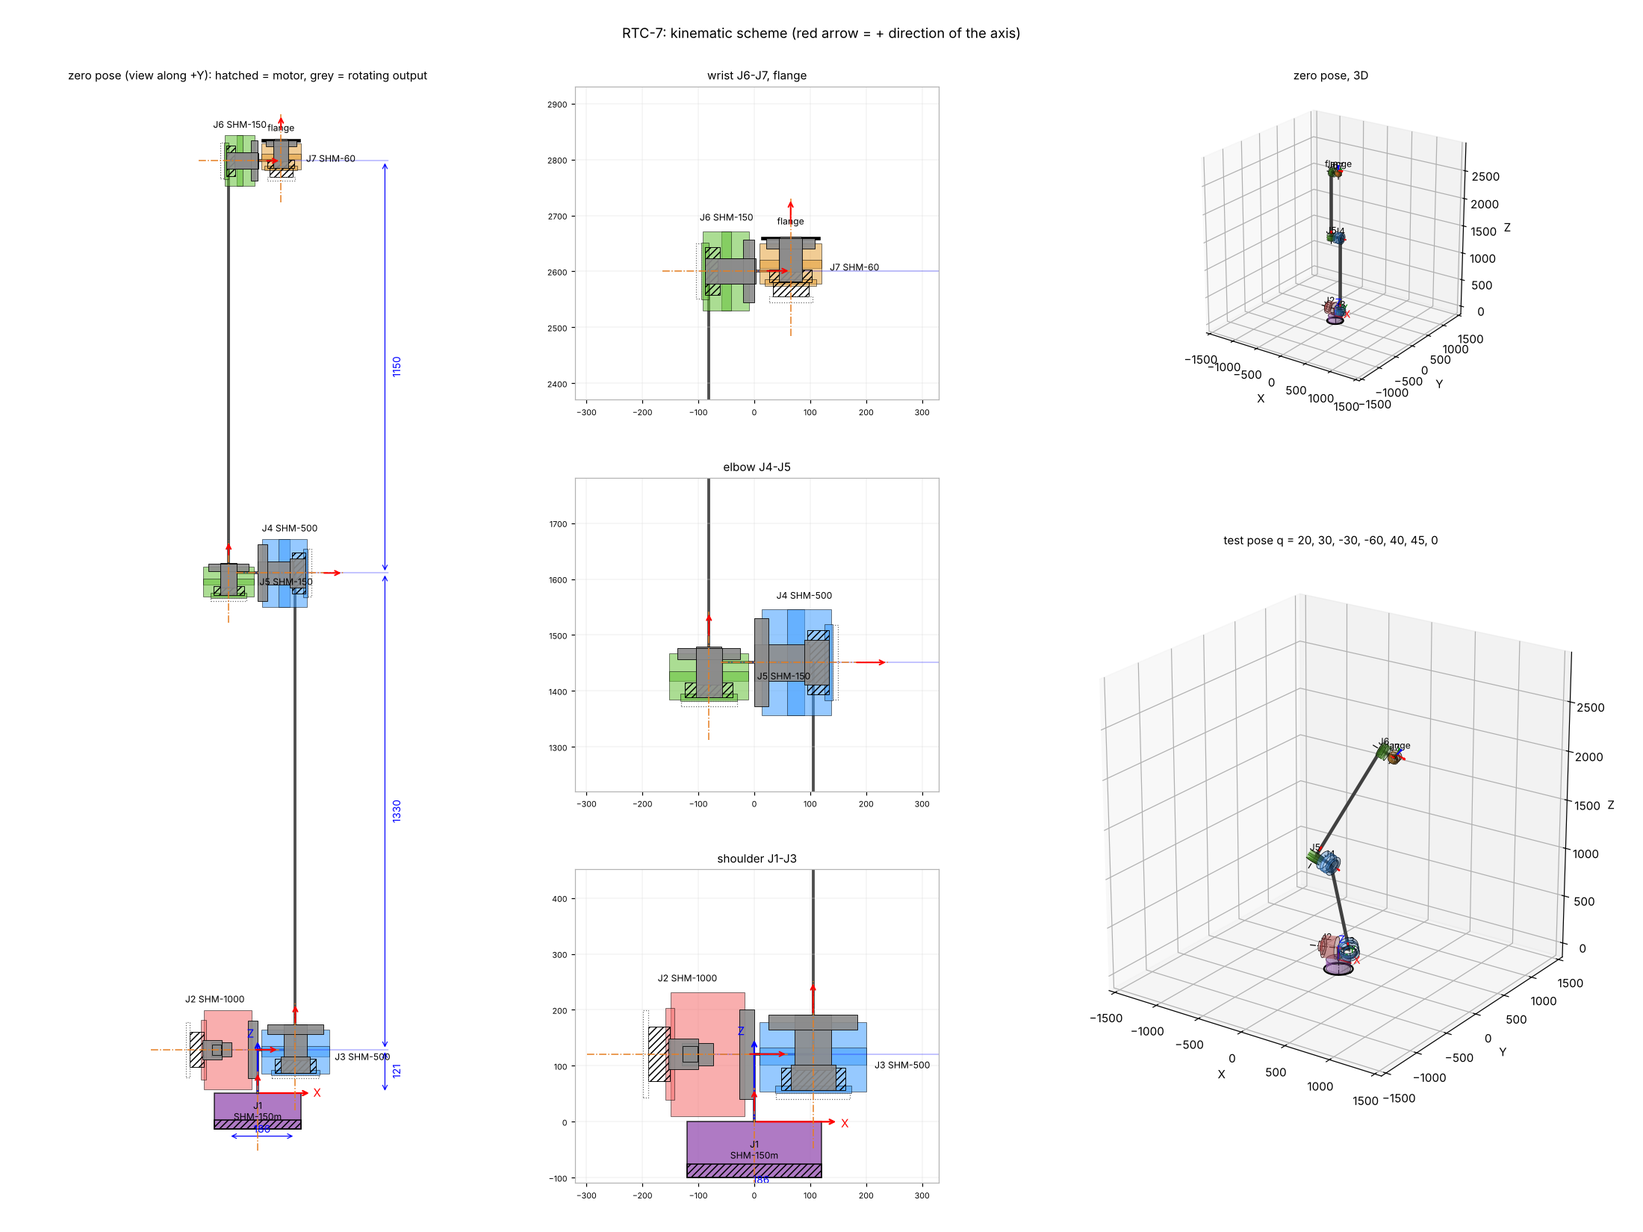
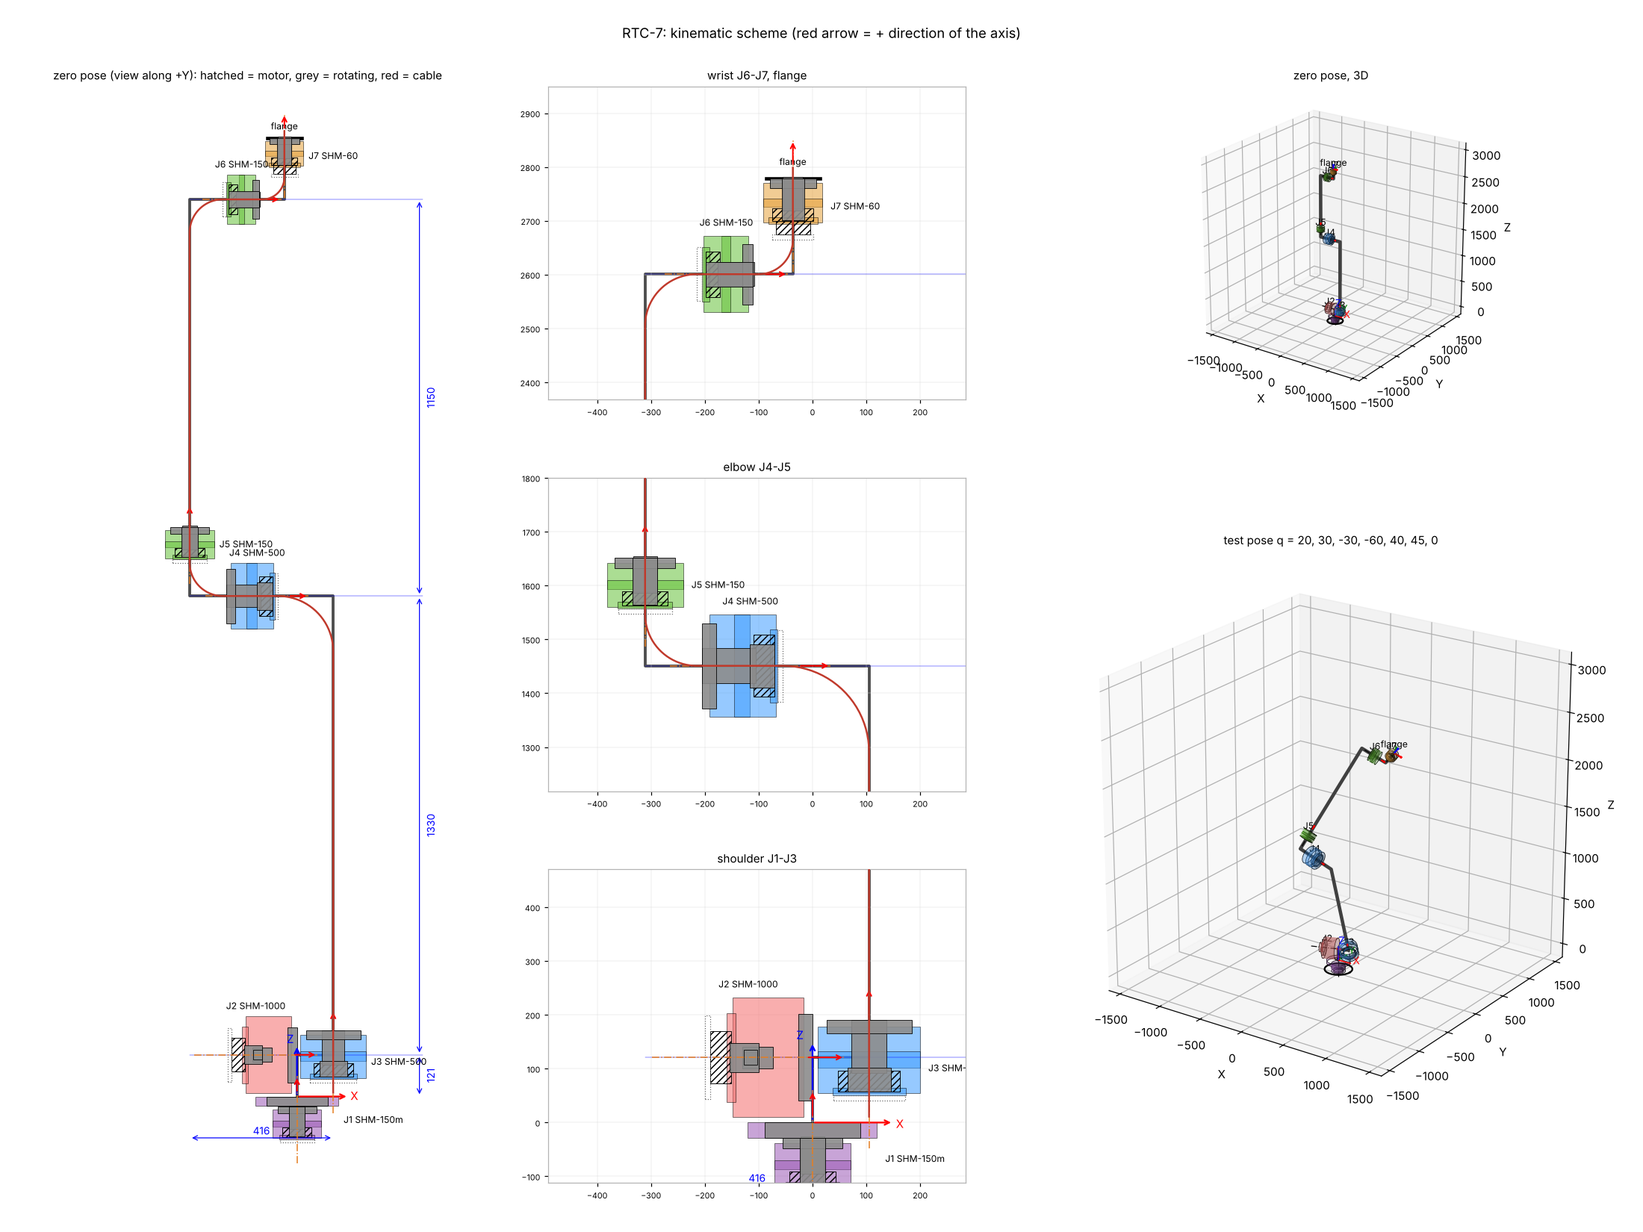
Layout with the cable path through the joint bores (90 deg bends J3->J4->J5->J6->J7), ШМ-150м under the ОПУ; joint_envelope reports the bore; scheme draws the cable and the ОПУ
Claude-Session: https://claude.ai/code/session_01T1NEmM8t24YJBEFNnKwD2z

diff --git a/tools/robot_layout.py b/tools/robot_layout.py
@@ -1,27 +1,33 @@
 #!/usr/bin/env python3
-"""Compact layout of the RTC-7 arm from the scheme topology and the real joint envelopes.
+"""Compact layout of the RTC-7 arm from the scheme topology, the real joint envelopes and the cable path.
 
-    python tools/robot_layout.py [--l3 1330] [--l5 1150] [--gap 10] [--plate 10] [--out robot/RTC-7-layout.txt]
+    python tools/robot_layout.py [--l3 1330] [--l5 1150] [--gap 10] [--plate 10]
+                                 [--k 4] [--clear 4] [--rb34 R --rb45 R --rb56 R --rb67 R]
+                                 [--out robot/RTC-7-layout.txt]
 
-Topology (from the user's scheme): J1 roll (vertical, motor down, on the ОПУ), J2 pitch (axis X,
-motor -X), J3 roll, J4 pitch (motor +X), J5 roll, J6 pitch (motor -X), J7 roll (tool flange up).
-Given: the link lengths J2->J4 (l3) and J4->J6 (l5) along Z. Everything else is minimised with the
-envelopes of tools/joint_envelope.py (rear allowance 10 mm for the rear cover) and these rules:
+Topology (user's scheme, 2026-10-18 v2): J1 = ШМ-150м (ШМ-150 + ОПУ RU178G; the outer ring stands on
+the horizontal base plane, the whole arm on the inner ring), J2 pitch (axis X, motor -X), J3 roll
+(motor down), J4 pitch (motor +X), J5 roll, J6 pitch (motor -X), J7 roll, tool flange up.
+Given: the link lengths J2->J4 (l3) and J4->J6 (l5) along Z.
 
-  lateral (X) - the output face of every pitch joint is the plane that separates the two links:
-    * the link on the output side (plate t on the output flange) carries the next roll joint whose
-      column (radius R of that joint) starts right behind the plate: x_roll = x_face +- (t + R);
-    * the link on the housing side keeps a gap g from the swept region of the output side:
-      x_face = x_roll_prev -+ (R_prev + g)  -> the two roll columns are R_prev + R_next + t + g apart,
-      so the pitch joint can fold the links past each other;
-    * J2: its output face is put on the J1 axis (x = 0) as drawn; link 1 is a bracket on the -X side.
-  vertical (Z):
-    * J2 axis above the ОПУ face: J2 envelope radius + g (the J2 body rotates with J1 over the fixed
-      base) and >= plate + g + R3 (the upper arm can swing to horizontal over link 1);
-    * a roll joint after a pitch joint is moved down to the pitch axis as far as possible: its rear
-      end (with the allowance) at the lower edge of the pitch joint output flange (z_pitch - R_out),
-      and for J3 not lower than plate + g above the ОПУ face;
-    * checks: the roll joint top stays below the next pitch joint body (z_next - R_next - g).
+Cable: enters J3 and runs through the central bores J3 -> J4 -> J5 -> J6 -> J7. Between two joints
+it turns 90 deg with the bend radius Rb (centre line) outside the joints:
+    Rb = k * d,  d = (smaller bore of the two joints) - clear   (static bend; k = 4 by default)
+or given directly with --rbXY. The cable enters a joint through its rear (motor) end and leaves
+through the output end.
+
+Rules (everything not given is minimised; gap g, link plate t):
+  J2   output face on the J1 axis (x = 0) as drawn; axis height = max(J2 radius + g over the fixed
+       ОПУ outer ring, t + g + R3 so the upper arm can swing to horizontal over link 1).
+  J3   column right behind the link-2 plate: x3 = t + R3; moved down to J2: rear end at the lower
+       edge of the J2 output flange (not below t + g over the ОПУ).
+  J4   cable J3 -> J4 rear: x3 >= J4 rear end + Rb34  -> J4 output face x = x3 - Rb34 - L4.
+  J5   cable J4 output -> J5 rear: x5 = J4 face - t - Rb45; J5 rear end >= z4 + Rb45 (raised a bit).
+  J6   cable J5 output -> J6 rear: J6 rear end >= x5 + Rb56 -> J6 face = x5 + Rb56 + L6;
+       J5 output face <= z6 - t - Rb56 (checked).
+  J7   cable J6 output -> J7 rear: x7 = J6 face + t + Rb67; J7 rear end >= z6 + Rb67.
+  checks: the roll columns on both sides of a pitch joint are >= R + R' + t + g apart (the links
+  can fold past each other); the J3 output face is below z4 - t - Rb34.
 """
 import argparse
 import os
@@ -31,6 +37,7 @@ sys.path.insert(0, os.path.dirname(os.path.abspath(__file__)))
 import joint_envelope as je  # noqa: E402
 
 ROOT = os.path.dirname(os.path.dirname(os.path.abspath(__file__)))
+OPU_B = 28.0          # RU178G width (ASSUMED as IKO RU178), outer ring on the base plane
 
 
 def main():
@@ -39,69 +46,101 @@ def main():
     ap.add_argument("--l5", type=float, default=1150.0, help="J4 -> J6 along the arm, mm")
     ap.add_argument("--gap", type=float, default=10.0)
     ap.add_argument("--plate", type=float, default=10.0)
+    ap.add_argument("--k", type=float, default=4.0, help="bend radius / cable diameter")
+    ap.add_argument("--clear", type=float, default=4.0, help="cable diameter = bore - clear")
+    for s in ("34", "45", "56", "67"):
+        ap.add_argument(f"--rb{s}", type=float, help=f"bend radius J{s[0]} -> J{s[1]}, mm")
     ap.add_argument("--out", default="robot/RTC-7-layout.txt")
     a = ap.parse_args()
     g, t = a.gap, a.plate
     env = je.all_joints()
-    E2, E3, E4, E5, E6, E7 = (env[n] for n in ("SHM-1000", "SHM-500", "SHM-500", "SHM-150", "SHM-150", "SHM-60"))
+    E1, E2, E3, E4, E5, E6, E7 = (env[n] for n in ("SHM-150", "SHM-1000", "SHM-500", "SHM-500",
+                                                    "SHM-150", "SHM-150", "SHM-60"))
+    rb, dc = {}, {}
+    for s, ea, eb in (("34", E3, E4), ("45", E4, E5), ("56", E5, E6), ("67", E6, E7)):
+        dc[s] = min(ea["bore"], eb["bore"]) - a.clear
+        rb[s] = getattr(a, f"rb{s}") or a.k * dc[s]
 
-    # ---- lateral
-    xf2 = 0.0                                   # J2 output face on the J1 axis (as drawn)
-    x3 = xf2 + t + E3["R"]                      # J3 column right behind the link-2 plate
-    xf4 = x3 - E3["R"] - g                      # J4 output face (output -X)
-    x5 = xf4 - t - E5["R"]
-    xf6 = x5 + E5["R"] + g                      # J6 output face (output +X)
-    x7 = xf6 + t + E7["R"]
-    # ---- vertical
+    # ---- J1: ШМ-150 under the ОПУ; its housing top clears the inner ring (z -B..0) by g
+    z1_face = -OPU_B - g + (E1["x_out"] - max(x1 for x0, x1, r, n in E1["fixed"]))
+    # ---- J2
+    xf2 = 0.0
     z2 = max(E2["R"] + g, t + g + E3["R"])
+    # ---- J3
+    x3 = xf2 + t + E3["R"]
     z3_rear = max(z2 - E2["R_out"], t + g)
     z3_face = z3_rear + E3["L"]
     z4 = z2 + a.l3
-    z5_rear = z4 - E4["R_out"]
+    # ---- J4 (output -X): rear end at x3 - Rb34
+    xf4 = x3 - rb["34"] - E4["L"]
+    # ---- J5
+    x5 = xf4 - t - rb["45"]
+    z5_rear = z4 + rb["45"]
     z5_face = z5_rear + E5["L"]
     z6 = z4 + a.l5
-    z7_rear = z6 - E6["R_out"]
+    # ---- J6 (output +X): rear end at x5 + Rb56
+    xf6 = x5 + rb["56"] + E6["L"]
+    # ---- J7
+    x7 = xf6 + t + rb["67"]
+    z7_rear = z6 + rb["67"]
     z7_face = z7_rear + E7["L"]
-    checks = [("J3 top below the J4 body", z3_face, z4 - E4["R"] - g),
-              ("J5 top below the J6 body", z5_face, z6 - E6["R"] - g)]
-    bad = [c for c in checks if c[1] > c[2]]
+
+    checks = [("J3 output face below the J3->J4 cable bend", z3_face, z4 - t - rb["34"]),
+              ("J5 output face below the J5->J6 cable bend", z5_face, z6 - t - rb["56"]),
+              ("links fold past each other at J4 (columns J3/J5)", E3["R"] + E5["R"] + t + g, x3 - x5),
+              ("links fold past each other at J6 (columns J5/J7)", E5["R"] + E7["R"] + t + g, x7 - x5),
+              ("J2 body over the ОПУ outer ring", g, z2 - E2["R"])]
+    bad = [c for c in checks if c[1] > c[2] + 1e-9]
     for name, v, lim in checks:
-        print(f"{'OK ' if v <= lim else 'BAD'} {name}: {v:.1f} <= {lim:.1f}")
+        print(f"{'OK ' if v <= lim + 1e-9 else 'BAD'} {name}: {v:.1f} <= {lim:.1f}")
 
     L = []
     w = L.append
+    rbtxt = ", ".join(f"J{s[0]}->J{s[1]} {rb[s]:.0f} (cable D{dc[s]:.0f})" for s in rb)
     w("# Kinematic layout of the arm - GENERATED by tools/robot_layout.py (do not edit by hand,")
-    w(f"# change the rules / arguments there):  --l3 {a.l3:g} --l5 {a.l5:g} --gap {g:g} --plate {t:g}")
-    w("# Topology from the user's scheme (2026-10-18, v2): rectangle = joint, hatched end = motor side,")
-    w("# orange line = axis. Given: J2->J4 = l3, J4->J6 = l5. All other distances are minimised from the")
-    w("# joint envelopes (tools/joint_envelope.py); J3 is moved down to J2 and J5 down to J4 as far as")
-    w("# possible (rules in the header of tools/robot_layout.py).")
+    w(f"# change the rules / arguments there):  --l3 {a.l3:g} --l5 {a.l5:g} --gap {g:g} --plate {t:g} --k {a.k:g}")
+    w("# Topology from the user's scheme (2026-10-18, v2); J1 = ШМ-150м: ОПУ outer ring on the base plane,")
+    w("# the arm on the inner ring. Given: J2->J4 = l3, J4->J6 = l5; the rest minimised from the joint")
+    w("# envelopes and the cable path through the central bores J3..J7 (90 deg turns between joints).")
+    w(f"# Cable bend radii (centre line): {rbtxt}")
     w("ROBOT RTC-7")
     w("UNITS mm deg")
     w("# World frame = the X/Y frame of the scheme: origin on the J1 axis at the top face of the ОПУ,")
     w("# +Z up along J1, +X to the right (toward the J3 column), +Y = Z x X (into the scheme).")
     w("# AXIS name joint  point on the axis (x y z)  direction  motor/output side  face= output face centre")
     rows = [
-        ("J1", "SHM-150m", (0, 0, 0), (0, 0, 1), "-Z", "+Z", None, "base turn: ОПУ RU178G + KB32 + RI80 (joint not designed yet)"),
+        ("J1", "SHM-150m", (0, 0, 0), (0, 0, 1), "-Z", "+Z", (0, 0, z1_face), "base turn: ШМ-150 under the ОПУ RU178G, output -> inner ring (link 1)"),
         ("J2", "SHM-1000", (0, 0, z2), (1, 0, 0), "-X", "+X", (xf2, 0, z2), "shoulder; output face on the J1 axis"),
-        ("J3", "SHM-500", (x3, 0, z2), (0, 0, 1), "-Z", "+Z", (x3, 0, z3_face), "upper-arm roll; rear end at the lower edge of the J2 output flange"),
-        ("J4", "SHM-500", (x3, 0, z4), (1, 0, 0), "+X", "-X", (xf4, 0, z4), f"elbow; {a.l3:g} above J2"),
-        ("J5", "SHM-150", (x5, 0, z4), (0, 0, 1), "-Z", "+Z", (x5, 0, z5_face), "forearm roll; rear end at the lower edge of the J4 output flange"),
-        ("J6", "SHM-150", (x5, 0, z6), (1, 0, 0), "-X", "+X", (xf6, 0, z6), f"wrist; {a.l5:g} above J4"),
-        ("J7", "SHM-60", (x7, 0, z6), (0, 0, 1), "-Z", "+Z", (x7, 0, z7_face), "flange roll; rear end at the lower edge of the J6 output flange"),
+        ("J3", "SHM-500", (x3, 0, z2), (0, 0, 1), "-Z", "+Z", (x3, 0, z3_face), "upper-arm roll; cables enter here; down to the J2 output flange"),
+        ("J4", "SHM-500", (x3, 0, z4), (1, 0, 0), "+X", "-X", (xf4, 0, z4), f"elbow; {a.l3:g} above J2; rear end Rb34 from the J3 axis"),
+        ("J5", "SHM-150", (x5, 0, z4), (0, 0, 1), "-Z", "+Z", (x5, 0, z5_face), "forearm roll; rear end Rb45 above J4"),
+        ("J6", "SHM-150", (x5, 0, z6), (1, 0, 0), "-X", "+X", (xf6, 0, z6), f"wrist; {a.l5:g} above J4; rear end Rb56 from the J5 axis"),
+        ("J7", "SHM-60", (x7, 0, z6), (0, 0, 1), "-Z", "+Z", (x7, 0, z7_face), "flange roll; rear end Rb67 above J6"),
     ]
     f3 = lambda v: " ".join(f"{c:g}" if float(c).is_integer() else f"{c:.1f}" for c in v)
     for n, j, p, d, m, o, face, c in rows:
-        fs = f"face={','.join(f'{v:.1f}' for v in face)}" if face else ""
-        w(f"AXIS  {n}  {j:<9} {f3(p):<16} {f3(d):<7} motor={m} output={o} {fs:<28} # {c}")
+        fs = f"face={','.join(f'{v:.1f}' for v in face)}"
+        w(f"AXIS  {n}  {j:<9} {f3(p):<18} {f3(d):<7} motor={m} output={o} {fs:<28} # {c}")
+    w("# Cable path (centre line through the bores, zero pose) for drawing and checks:")
+    path = [(x3, z3_rear - 30), (x3, z4 - rb["34"]), ("arc", x3 - rb["34"], z4 - rb["34"], rb["34"], 0, 90),
+            (x3 - rb["34"], z4), (xf4 - t, z4), ("arc", xf4 - t, z4 + rb["45"], rb["45"], 270, 180),
+            (x5, z4 + rb["45"]), (x5, z6 - rb["56"]), ("arc", x5 + rb["56"], z6 - rb["56"], rb["56"], 180, 90),
+            (x5 + rb["56"], z6), (xf6 + t, z6), ("arc", xf6 + t, z6 + rb["67"], rb["67"], 270, 360),
+            (x7, z6 + rb["67"]), (x7, z7_face + 20)]
+    for p in path:
+        if p[0] == "arc":
+            w(f"CABLE arc {p[1]:.1f} {p[2]:.1f} {p[3]:.1f} {p[4]:g} {p[5]:g}   # centre x z, radius, from..to deg (0 = +X, 90 = +Z)")
+        else:
+            w(f"CABLE pt  {p[0]:.1f} {p[1]:.1f}")
     w("# Tool flange = output face of ШМ-60 (the tool is not on the scheme).")
     w(f"FLANGE {f3((x7, 0, z7_face))}   0 0 1")
     w("END")
     out = os.path.join(ROOT, a.out)
     open(out, "w", encoding="utf-8").write("\n".join(L) + "\n")
     print("\n".join(L))
-    print(f"\nlateral offsets: J1->J3 {x3:.1f}, J3->J5 {x3 - x5:.1f}, J5->J7 {x7 - x5:.1f}; "
-          f"ОПУ -> J2 {z2:.1f}; J6 -> flange {z7_face - z6:.1f}")
+    print(f"\nlateral: J1->J3 {x3:.1f}, J3->J5 {x3 - x5:.1f}, J5->J7 {x7 - x5:.1f}; ОПУ->J2 {z2:.1f}; "
+          f"J4->J5 rear {rb['45']:.1f}; J6->J7 rear {rb['67']:.1f}; J6 -> flange {z7_face - z6:.1f}; "
+          f"J1 output face z {z1_face:.1f}")
     if bad:
         sys.exit("layout check FAILED")
 

diff --git a/tools/robot_scheme.py b/tools/robot_scheme.py
@@ -40,6 +40,9 @@ def read_layout(path):
                                 "motor": kv.get("motor"), "output": kv.get("output"),
                                 "at": float(kv["at"]) if "at" in kv else None,
                                 "face": np.array([float(v) for v in kv["face"].split(",")]) if "face" in kv else None})
+        elif t[0] == "CABLE":
+            lay.setdefault("cable", []).append(("arc", *map(float, t[2:7])) if t[1] == "arc"
+                                               else ("pt", float(t[2]), float(t[3])))
         elif t[0] == "FLANGE":
             lay["flange"] = {"p": np.array([float(v) for v in t[1:4]]),
                              "w": np.array([float(v) for v in t[4:7]]),
@@ -108,7 +111,7 @@ def joint_bodies(lay):
             _ENV = {}
     out = []
     for a, T in zip(lay["axes"], lay.get("_Ts", [])):
-        e = _ENV.get(a["joint"])
+        e = _ENV.get(a["joint"]) or _ENV.get(a["joint"].rstrip("m"))
         if e is None or a.get("face") is None:
             out.append(None)
             continue
@@ -125,8 +128,24 @@ def joint_bodies(lay):
         xr = e["x_rear"]
         c = a["face"] + u * (xr + e["rear_allowance"] / 2 - e["x_out"])
         segs.append(((T @ np.r_[c, 1])[:3], T[:3, :3] @ u, e["R"] * 0.7, e["rear_allowance"], "cover"))
+        if a["joint"].endswith("m"):      # ШМ-150м: + ОПУ RU178G at z -28..0 (outer ring fixed, inner turns)
+            segs.append((np.array([0, 0, -14.0]), np.array([0, 0, 1.0]), 120.0, 28.0, "fixed"))
+            segs.append((np.array([0, 0, -14.0]), np.array([0, 0, 1.0]), 88.5, 28.0, "rot"))
         out.append(segs)
     return out
+
+
+def cable_xy(lay):
+    """Cable centre line (zero pose) as a polyline in the X-Z plane."""
+    P = []
+    for item in lay.get("cable", []):
+        if item[0] == "pt":
+            P.append((item[1], item[2]))
+        else:
+            _, cx, cz, r, a0, a1 = item
+            for tt in np.linspace(math.radians(a0), math.radians(a1), 24):
+                P.append((cx + r * math.cos(tt), cz + r * math.sin(tt)))
+    return np.array(P)
 
 
 # ---------------------------------------------------------------- DH
@@ -307,6 +326,9 @@ def draw_side(ax, lay, zoom=None, title=None):
                     ha="left" if along_z else "center", va="center" if along_z else "bottom", fontsize=8, zorder=6)
         else:
             ax.text(cu, cv, f"{a['name']}\n{j}", ha="center", va="center", fontsize=8, zorder=6)
+    C = cable_xy(lay)
+    if len(C):
+        ax.plot(C[:, 0], C[:, 1], color="#c0392b", lw=1.6, zorder=7, label="cable")
     fu, fv = uv(Tf[:3, 3])
     ax.plot([fu - 50, fu + 50], [fv, fv], color="k", lw=3)
     ax.text(fu, fv + 25, "flange (estimated)" if lay["flange"]["assumed"] else "flange", ha="center", fontsize=8)
@@ -339,7 +361,7 @@ def draw_side(ax, lay, zoom=None, title=None):
     else:
         ax.set_xlim(min(xs) - 450, xr + 120), ax.set_ylim(-250, fv + 150)
         ax.axis("off")
-    ax.set_title(title or "zero pose (view along +Y): hatched = motor, grey = rotating output", fontsize=10)
+    ax.set_title(title or "zero pose (view along +Y): hatched = motor, grey = rotating, red = cable", fontsize=10)
 
 
 def draw(lay, q_test, path):
@@ -355,7 +377,10 @@ def draw(lay, q_test, path):
     for k, (za, zb, nm) in enumerate([(zz[1], zz[2], "shoulder J1-J3"), (zz[3], zz[4], "elbow J4-J5"),
                                       (zz[5], Tf0[2, 3], "wrist J6-J7, flange")]):
         lo = min(za, zb)
-        draw_side(fig.add_subplot(gs[2 - k, 1]), lay, zoom=((-320, 330), (lo - 230, lo + 330)), title=nm)
+        xa = [p[0] for p in pts0]
+        x0z, x1z = min(xa) - 180, max(xa) + 180
+        hz = (x1z - x0z) * 0.75
+        draw_side(fig.add_subplot(gs[2 - k, 1]), lay, zoom=((x0z, x1z), (lo - 0.4 * hz, lo + 0.6 * hz)), title=nm)
     fk_poe(lay, np.zeros(n))
     for k, (q, title) in enumerate([(np.zeros(len(lay["axes"])), "zero pose, 3D"),
                                     (q_test, "test pose q = " + ", ".join(f"{math.degrees(v):.0f}" for v in q_test))]):

diff --git a/tools/joint_envelope.py b/tools/joint_envelope.py
@@ -6,7 +6,7 @@
 The joint frame is the reducer frame (X = axis, reducer at x > 0, motor at x < 0, output face at
 the largest x). Sources: the reducer spec (revolved profiles), the PARTS file of the joint and the
 motor card (stator envelope_od / envelope_x, or the actuator body for AK80-9), placed by PLACE.
-Returns per joint: fixed profile (x0, x1, r) segments, the rotating output shaft, the output face x,
+Returns per joint: central bore D (smallest inner diameter of all parts - the cable passage), fixed profile (x0, x1, r) segments, the rotating output shaft, the output face x,
 the base (mounting) face x, the rear end x, max radius of the fixed part and of the output flange.
 """
 import os
@@ -79,6 +79,7 @@ def envelope(joint_path, rear_allowance=10.0):
         _, pp, _ = sp.parse(os.path.join(j["dir"], j["parts"]))
         parts += pp
     fixed, rot, out_shaft = [], [], None
+    bore = min((min(y for _, y in p["pts"]) for p in parts if p["pts"]), default=0.0)
     ports = {}
     for p in parts:
         if not p["pts"]:
@@ -98,7 +99,7 @@ def envelope(joint_path, rear_allowance=10.0):
     r_fixed = max(s[2] for s in fixed)
     return {"name": j["name"], "fixed": fixed, "rot": rot, "x_out": x_out, "x_rear": x_rear,
             "x_base": ports.get(base_ref, ports.get("base")), "R": r_fixed, "R_out": out_shaft[2],
-            "L": x_out - x_rear, "rear_allowance": rear_allowance}
+            "L": x_out - x_rear, "rear_allowance": rear_allowance, "bore": 2 * bore}
 
 
 def all_joints():
@@ -115,10 +116,10 @@ def all_joints():
 def main():
     paths = sys.argv[1:]
     envs = [envelope(p) for p in paths] if paths else list(all_joints().values())
-    print("joint      rear(+allow)  base   output   length   R fixed   R output")
+    print("joint      rear(+allow)  base   output   length   R fixed   R output  bore D")
     for e in envs:
         print(f"{e['name']:<10} {e['x_rear']:>8.1f} {e['x_base']:>8.1f} {e['x_out']:>8.1f} {e['L']:>8.1f}"
-              f" {e['R']:>8.1f} {e['R_out']:>9.1f}")
+              f" {e['R']:>8.1f} {e['R_out']:>9.1f} {e['bore']:>7.1f}")
 
 
 if __name__ == "__main__":

diff --git a/robot/RTC-7-kinematics.md b/robot/RTC-7-kinematics.md
@@ -11,11 +11,11 @@ mounting face of the slewing bearing, +Z along J1 toward the arm, +X toward the 
 | J2 | SHM-1000 | 0, 0, 121 | 1, 0, 0 | -X | intersect, 90 deg |
 | J3 | SHM-500 | 105, 0, 121 | 0, 0, 1 | -Z | intersect, 90 deg |
 | J4 | SHM-500 | 105, 0, 1451 | 1, 0, 0 | +X | intersect, 90 deg |
-| J5 | SHM-150 | -81, 0, 1451 | 0, 0, 1 | -Z | intersect, 90 deg |
-| J6 | SHM-150 | -81, 0, 2601 | 1, 0, 0 | -X | intersect, 90 deg |
-| J7 | SHM-60 | 65, 0, 2601 | 0, 0, 1 | -Z | intersect, 90 deg |
+| J5 | SHM-150 | -311, 0, 1451 | 0, 0, 1 | -Z | intersect, 90 deg |
+| J6 | SHM-150 | -311, 0, 2601 | 1, 0, 0 | -X | intersect, 90 deg |
+| J7 | SHM-60 | -36.5, 0, 2601 | 0, 0, 1 | -Z | intersect, 90 deg |
 
-Flange: 65, 0, 2659
+Flange: -36.5, 0, 2779
 
 ## Standard DH (Spong): A_i = Rz(theta_i) Tz(d_i) Tx(a_i) Rx(alpha_i), theta_i = q_i + offset_i
 
@@ -24,18 +24,18 @@ Flange: 65, 0, 2659
 | 1 (J1) | 90.0 | 121.0 | 0.0 | 90.0 |
 | 2 (J2) | 0.0 | 105.0 | 0.0 | -90.0 |
 | 3 (J3) | 0.0 | 1330.0 | 0.0 | 90.0 |
-| 4 (J4) | 0.0 | -186.0 | 0.0 | -90.0 |
+| 4 (J4) | 0.0 | -416.0 | 0.0 | -90.0 |
 | 5 (J5) | 0.0 | 1150.0 | 0.0 | 90.0 |
-| 6 (J6) | 0.0 | 146.0 | 0.0 | -90.0 |
-| 7 (J7) | -90.0 | 58.0 | 0.0 | 0.0 |
+| 6 (J6) | 0.0 | 274.5 | 0.0 | -90.0 |
+| 7 (J7) | -90.0 | 178.0 | 0.0 | 0.0 |
 
 Row 7 ends in the tool frame on the flange (x = world X at zero). Base frame of the DH chain = world frame (identity).
 
-Check: DH chain vs exact axis model on 200 random poses - max difference 9.7e-13 (mm / -).
+Check: DH chain vs exact axis model on 200 random poses - max difference 1.1e-12 (mm / -).
 
 ## Geometry
 
-- shoulder (J2 x J1) at z = 121; flange at zero pose 65, 0, 2659
-- J2 -> J6 (shoulder -> wrist pitch) along the arm: 2481 mm
-- reach from the shoulder axis to the flange: 2539 mm (with the assumed flange)
+- shoulder (J2 x J1) at z = 121; flange at zero pose -36, 0, 2779
+- J2 -> J6 (shoulder -> wrist pitch) along the arm: 2499 mm
+- reach from the shoulder axis to the flange: 2658 mm (with the assumed flange)
 - consecutive axes all intersect: the lateral offsets lie along the pitch axes (out of the bending plane)
